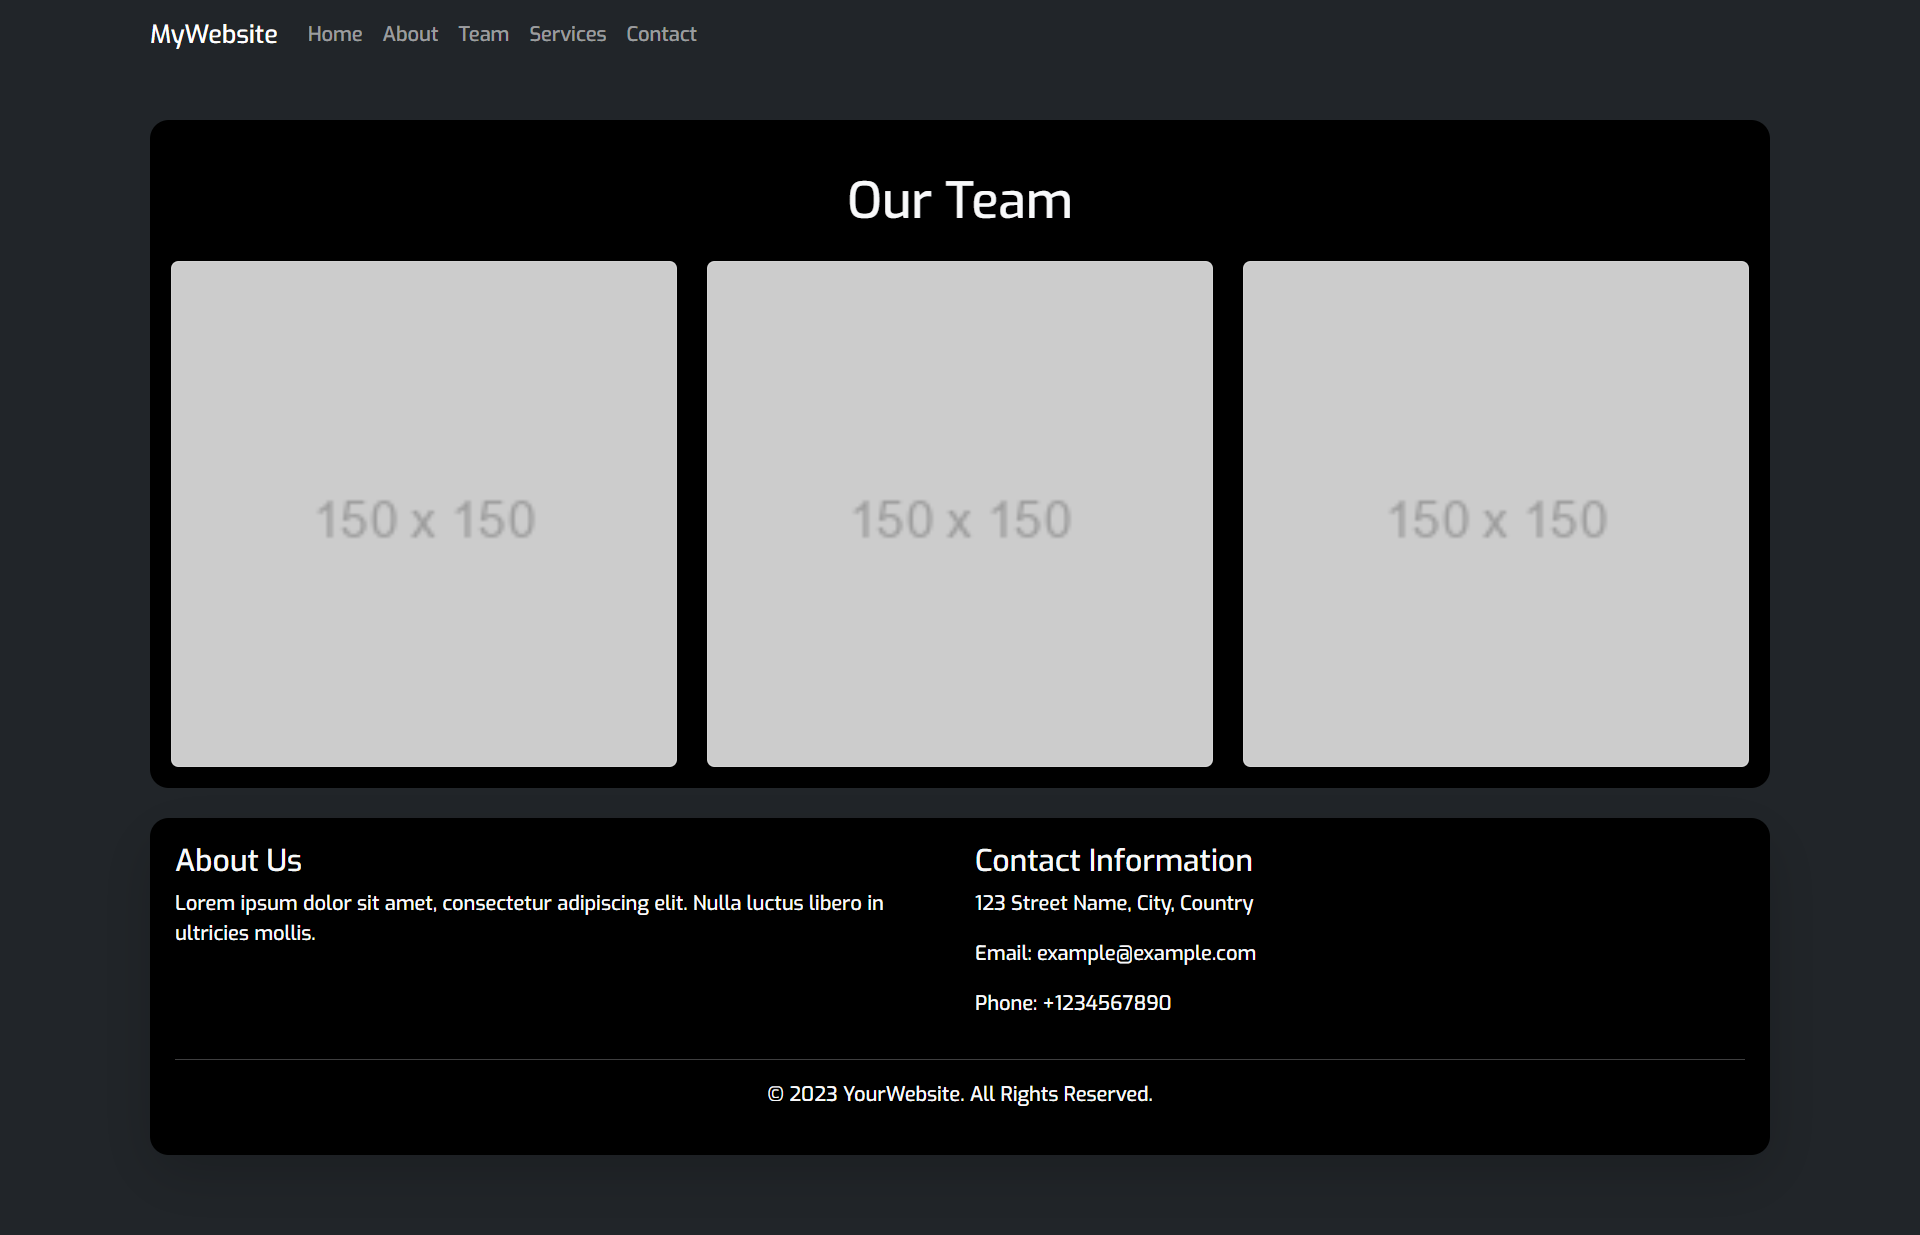
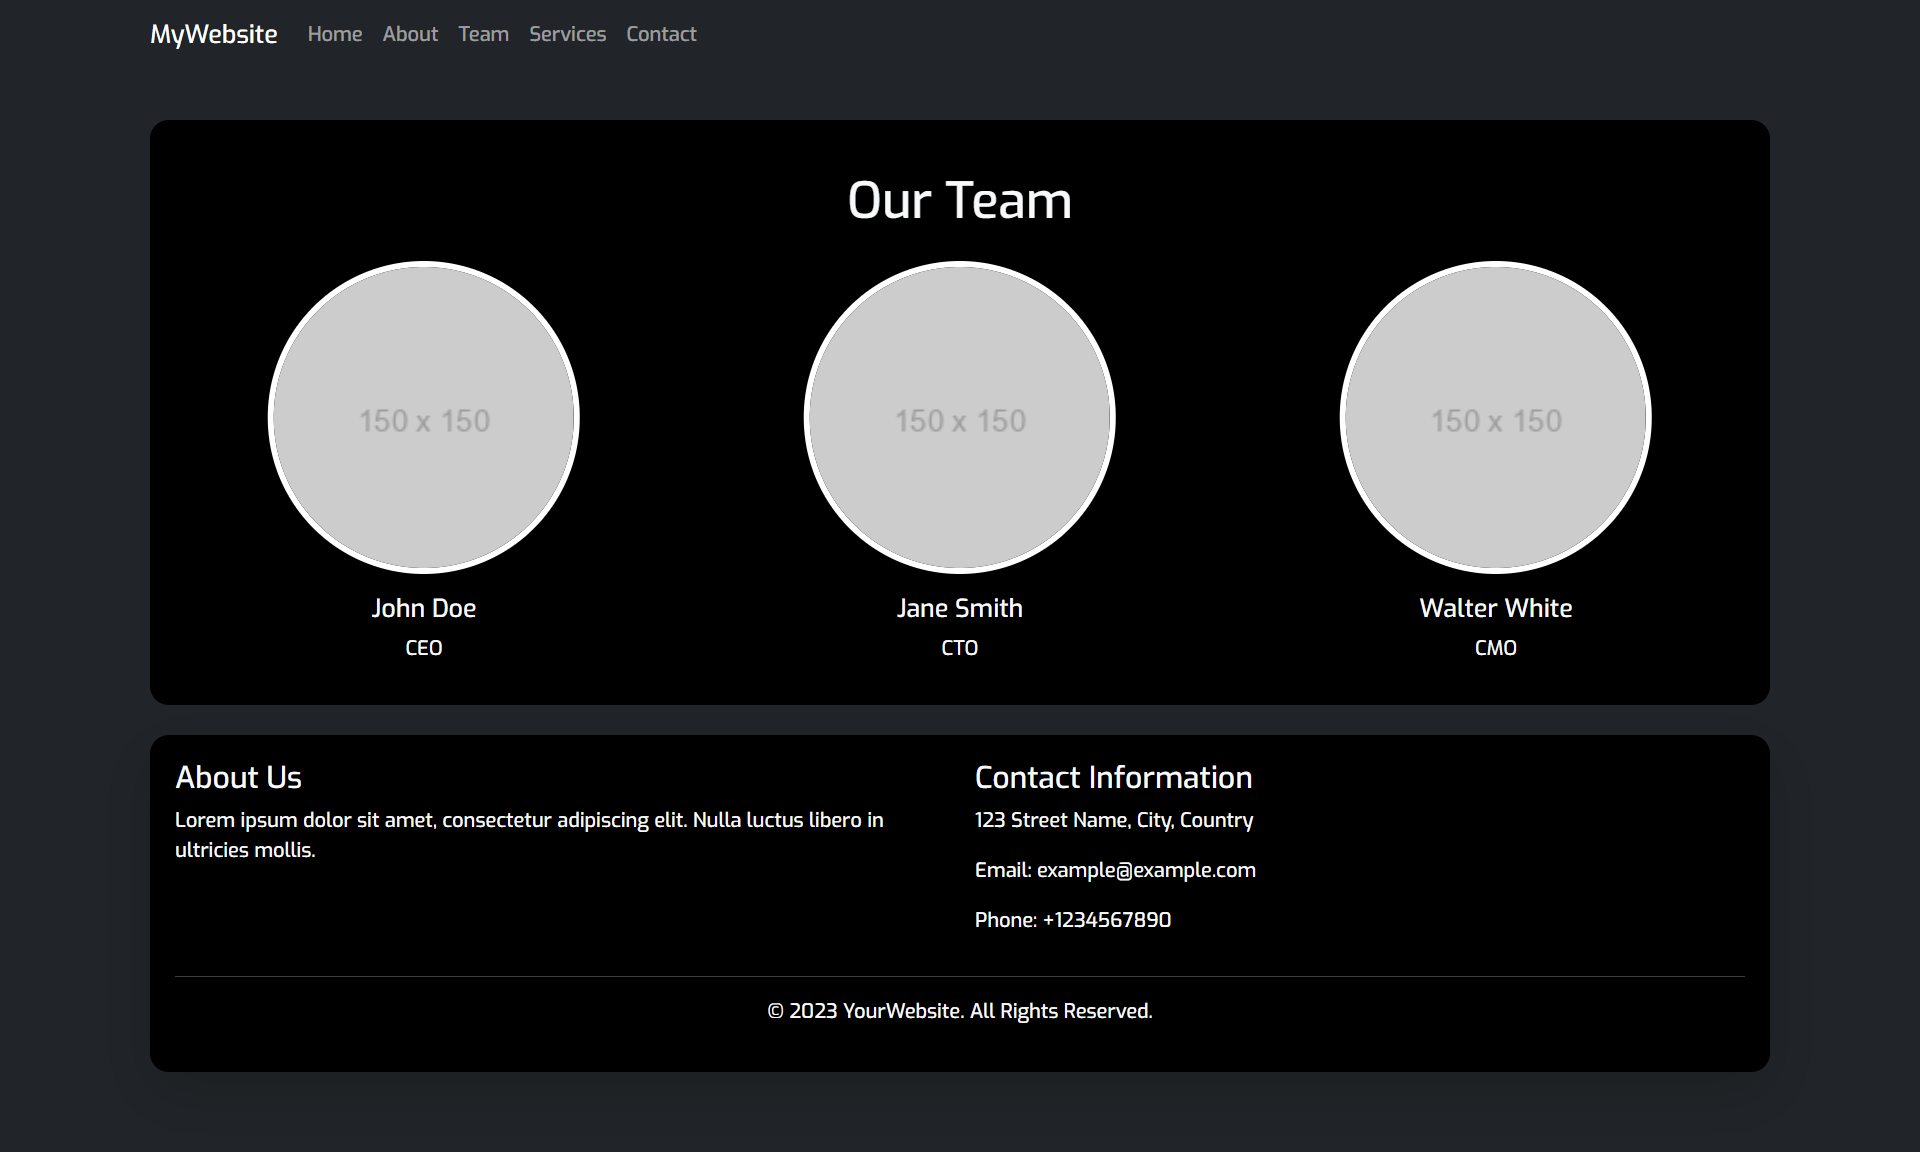
Updated

diff --git a/src/components/Carousel.js b/src/components/Carousel.js
@@ -9,35 +9,35 @@ function HomeCarousel() {
   return (
     <Carousel className='mb-4'>
       <Carousel.Item>
-        <img className="card-container d-block w-100" src={Art1} alt="First slide" />
+        <img className="radius-15 d-block w-100" src={Art1} alt="First slide" />
         <Carousel.Caption>
           <h3>First slide label</h3>
           <p>Nulla vitae elit libero, a pharetra augue mollis interdum.</p>
         </Carousel.Caption>
       </Carousel.Item>
       <Carousel.Item>
-        <img className="card-container d-block w-100" src={Art2} alt="Second slide" />
+        <img className="radius-15 d-block w-100" src={Art2} alt="Second slide" />
         <Carousel.Caption>
           <h3>Second slide label</h3>
           <p>Lorem ipsum dolor sit amet, consectetur adipiscing elit.</p>
         </Carousel.Caption>
       </Carousel.Item>
       <Carousel.Item>
-        <img className="card-container d-block w-100" src={Art3} alt="Third slide" />
+        <img className="radius-15 d-block w-100" src={Art3} alt="Third slide" />
         <Carousel.Caption>
           <h3>Third slide label</h3>
           <p>Praesent commodo cursus magna, vel scelerisque nisl consectetur.</p>
         </Carousel.Caption>
       </Carousel.Item>
       <Carousel.Item>
-        <img className="card-container d-block w-100" src={Art4} alt="4 slide" />
+        <img className="radius-15 d-block w-100" src={Art4} alt="4 slide" />
         <Carousel.Caption>
           <h3>4 slide label</h3>
           <p>Praesent commodo cursus magna, vel scelerisque nisl consectetur.</p>
         </Carousel.Caption>
       </Carousel.Item>
       <Carousel.Item>
-        <img className="card-container d-block w-100" src={Art5} alt="5 slide" />
+        <img className="radius-15 d-block w-100" src={Art5} alt="5 slide" />
         <Carousel.Caption>
           <h3>5 slide label</h3>
           <p>Praesent commodo cursus magna, vel scelerisque nisl consectetur.</p>

diff --git a/src/App.css b/src/App.css
@@ -8,48 +8,23 @@ body {
   margin-bottom: 4rem !important;
 }
 
-.card-container {
+.radius-15 {
   border-radius: 15px;
 }
 
-.team-img {
-  border-top-right-radius: 15px;
-  border-top-left-radius: 15px;
-}
-
-.footer {
-  background-color: black;
+.profile-card {
+  border: none;
   border-radius: 15px;
-  padding: 20px;
-  box-shadow: 0px 4px 8px rgba(0, 0, 0, 0.2);
+  background: none;
+  text-align: center;
 }
 
-/* Add this CSS in your stylesheet */
-.card {
+.profile-image {
+  width: 250px;
+  height: 250px;
+  border: 5px solid #fff;
+  border-radius: 50%;
   position: relative;
-  overflow: hidden;
-}
-
-.card img {
-  width: 100%;
-  height: auto;
-  transition: transform 0.2s ease-in-out;
-}
-
-
-.card-overlay {
-  position: absolute;
-  top: 50%;
   left: 50%;
-  transform: translate(-50%, -50%);
-  background-color: rgba(0, 0, 0, 0.7);
-  width: 100%;
-  height: 100%;
-  padding: 20px;
-  opacity: 0;
-  transition: opacity 0.3s ease;
-}
-
-.card:hover .card-overlay {
-  opacity: 1;
+  transform: translateX(-50%);
 }

diff --git a/src/components/mobile/BottomNavbar.js b/src/components/mobile/BottomNavbar.js
@@ -9,9 +9,9 @@ const BottomNavbar = () => {
                 <Navbar.Collapse id="basic-navbar-nav">
                     <Nav className="w-100 justify-content-between">
                         <Nav.Link as={Link} to="/"><i className="bi bi-house"></i></Nav.Link>
-                        <Nav.Link as={Link} to="/about"><i className="bi bi-info-circle"></i></Nav.Link>
                         <Nav.Link as={Link} to="/team"><i className="bi bi-people-fill"></i></Nav.Link>
-                        <Nav.Link as={Link} to="/services"><i className="bi bi-arrows-move"></i></Nav.Link>
+                        <Nav.Link as={Link} to="/services"><i class="bi bi-grid-1x2-fill"></i></Nav.Link>
+                        <Nav.Link as={Link} to="/about"><i className="bi bi-info-circle"></i></Nav.Link>
                         <Nav.Link as={Link} to="/contact"><i className="bi bi-telephone-fill"></i></Nav.Link>
                     </Nav>
                 </Navbar.Collapse>

diff --git a/src/components/Team.js b/src/components/Team.js
@@ -26,14 +26,14 @@ const Team = () => {
 
   return (
     <Container>
-      <Card body className='card-container text-light bg-black mb-4'>
+      <Card body className='radius-15 text-light bg-black mb-4'>
       <h1 className="text-center mt-4 mb-4">Our Team</h1>
       <Row xs={1} md={2} lg={3} className="g-4">
         {teamMembers.map((member) => (
           <Col key={member.id}>
-            <Card className="position-relative">
-              <Card.Img variant="top" src={member.image} alt={member.name} />
-              <div className="card-overlay">
+            <Card className="profile-card">
+              <Card.Img variant="top" className="profile-image" src={member.image} alt={member.name} />
+              <div>
                 <Card.Body className="text-light">
                   <Card.Title>{member.name}</Card.Title>
                   <Card.Text>{member.position}</Card.Text>

diff --git a/src/components/Footer.js b/src/components/Footer.js
@@ -1,12 +1,11 @@
 import React from 'react';
-import { Container, Row, Col } from 'react-bootstrap';
+import { Container, Row, Col, Card } from 'react-bootstrap';
 
 const Footer = () => {
   
   return (
     <Container>
-    <footer className="footer text-light shadow-lg d-none d-sm-block">
-      
+    <Card body className='radius-15 text-light bg-black mb-4 shadow-lg d-none d-sm-block'>
         <Row>
           <Col md={6}>
             <h4>About Us</h4>
@@ -22,12 +21,11 @@ const Footer = () => {
             <p>Phone: +1234567890</p>
           </Col>
         </Row>
-      
-      <div className="text-center">
         <hr></hr>
+      <div className="text-center">
         <p>&copy; 2023 YourWebsite. All Rights Reserved.</p>
       </div>
-    </footer>
+      </Card>
     </Container>
   );
 };

diff --git a/src/components/ContactUs.js b/src/components/ContactUs.js
@@ -14,16 +14,12 @@ const ContactUs = () => {
 
   return (
     <Container className='mb-4'>
-      <Card body className='card-container text-light bg-black'>
+      <Card body className='radius-15 text-light bg-black'>
         <Row>
           <Col sm={6}>
-          <h4>Contact Information</h4>
-            <p>123 Street Name, City, Country</p>
-            <p>Email: example@example.com</p>
-            <p>Phone: +1234567890</p>
           </Col>
           <Col sm={6}>
-            <Card body className='bg-dark text-light'>
+            <Card body className='radius-15 bg-dark text-light'>
               <h1>Contact Us</h1>
               <Form onSubmit={handleSubmit}>
                 <FloatingLabel controlId="formName" label="Name">

diff --git a/src/components/Homepage.js b/src/components/Homepage.js
@@ -7,7 +7,7 @@ const Homepage = () => {
     <div>
       <Container>
       <HomeCarousel />
-      <Card body className='card-container text-light bg-black mb-4'>
+      <Card body className='radius-15 text-light bg-black mb-4'>
         <h1>Welcome to My Website</h1>
         <p>
           This is a simple React homepage using Bootstrap for styling.
@@ -19,7 +19,7 @@ const Homepage = () => {
       </Container>
 
       <Container>
-      <Card body className='card-container text-light bg-black mb-4'>
+      <Card body className='radius-15 text-light bg-black mb-4'>
         <Row>
           <Col>
             <h2>About</h2>

diff --git a/src/components/About.js b/src/components/About.js
@@ -4,11 +4,11 @@ import { Container, Row, Col, Image, Card } from 'react-bootstrap';
 const About = () => {
   return (
     <Container>
-      <Card body className='card-container text-light bg-black mb-4'>
+      <Card body className='radius-15 text-light bg-black mb-4'>
       <h1 className="text-center mt-4 mb-4">About Us</h1>
       <Row>
         <Col md={6}>
-          <Image src="https://via.placeholder.com/400" alt="About Us" fluid />
+          <Image src="https://via.placeholder.com/400" className='radius-15 w-100' alt="About Us" fluid />
         </Col>
         <Col md={6}>
           <p>

diff --git a/src/components/Services.js b/src/components/Services.js
@@ -4,7 +4,7 @@ import { Container, Card } from 'react-bootstrap';
 const Services = () => {
   return (
     <Container>
-      <Card body className='card-container text-light bg-black mb-4'>
+      <Card body className='radius-15 text-light bg-black mb-4'>
       <h1 className="text-center mt-4 mb-4">Our Services</h1>
         <Card className='bg-secondary text-light mb-4'>
           <Card.Body>
